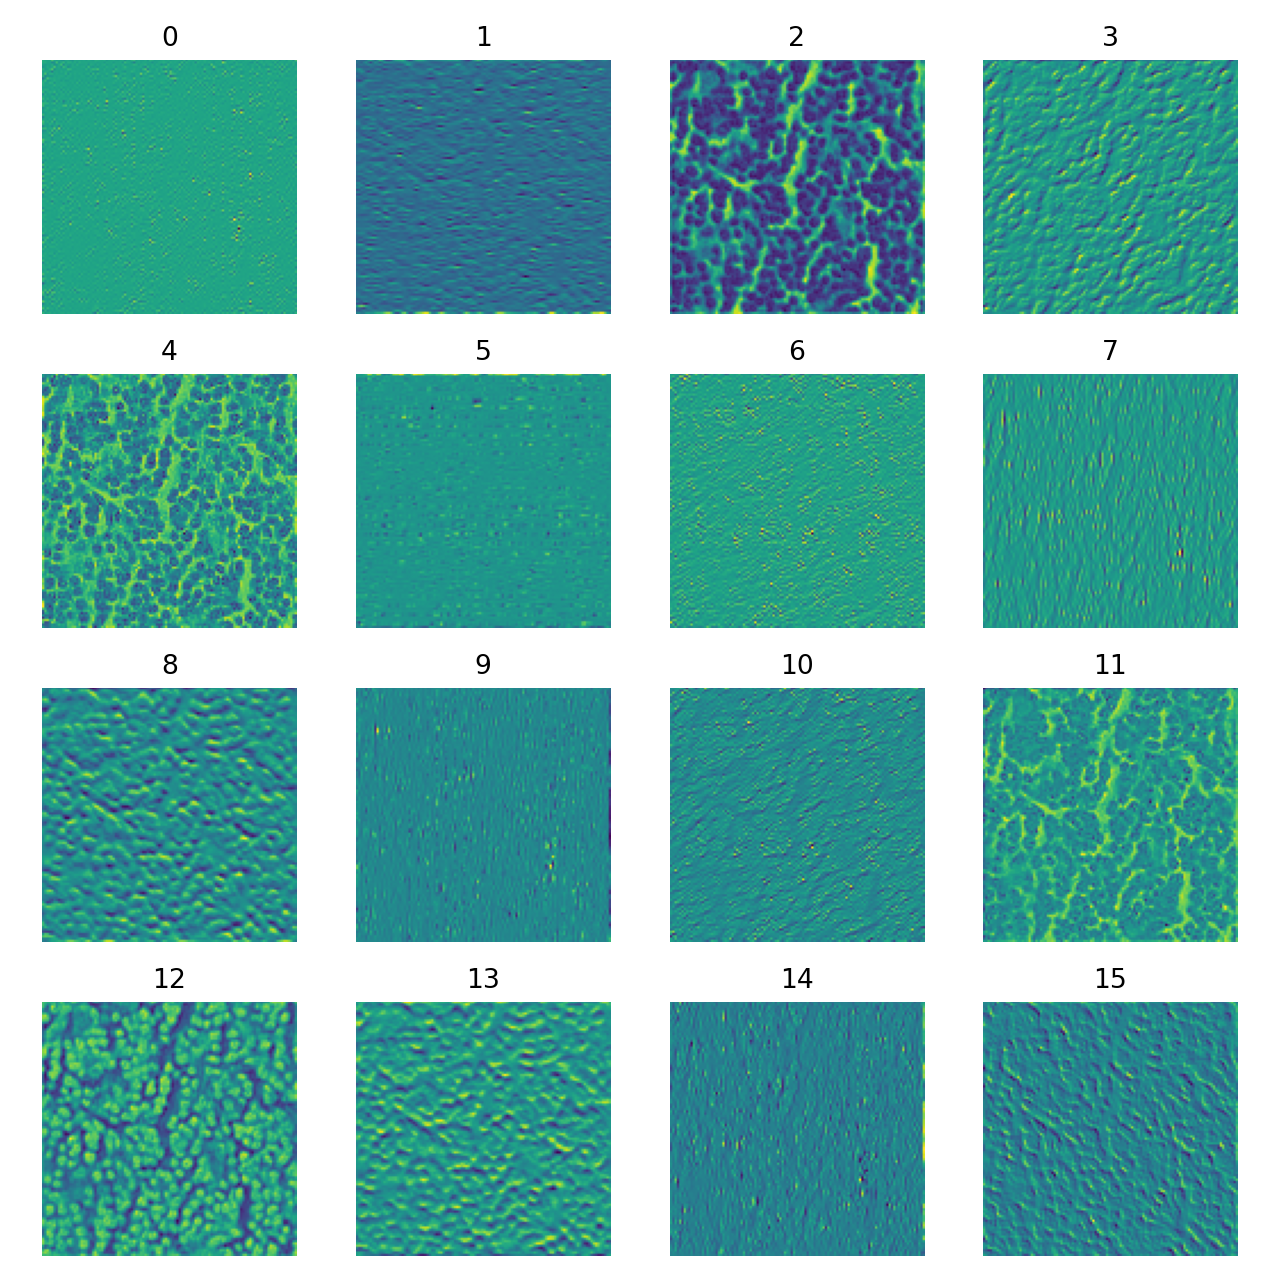
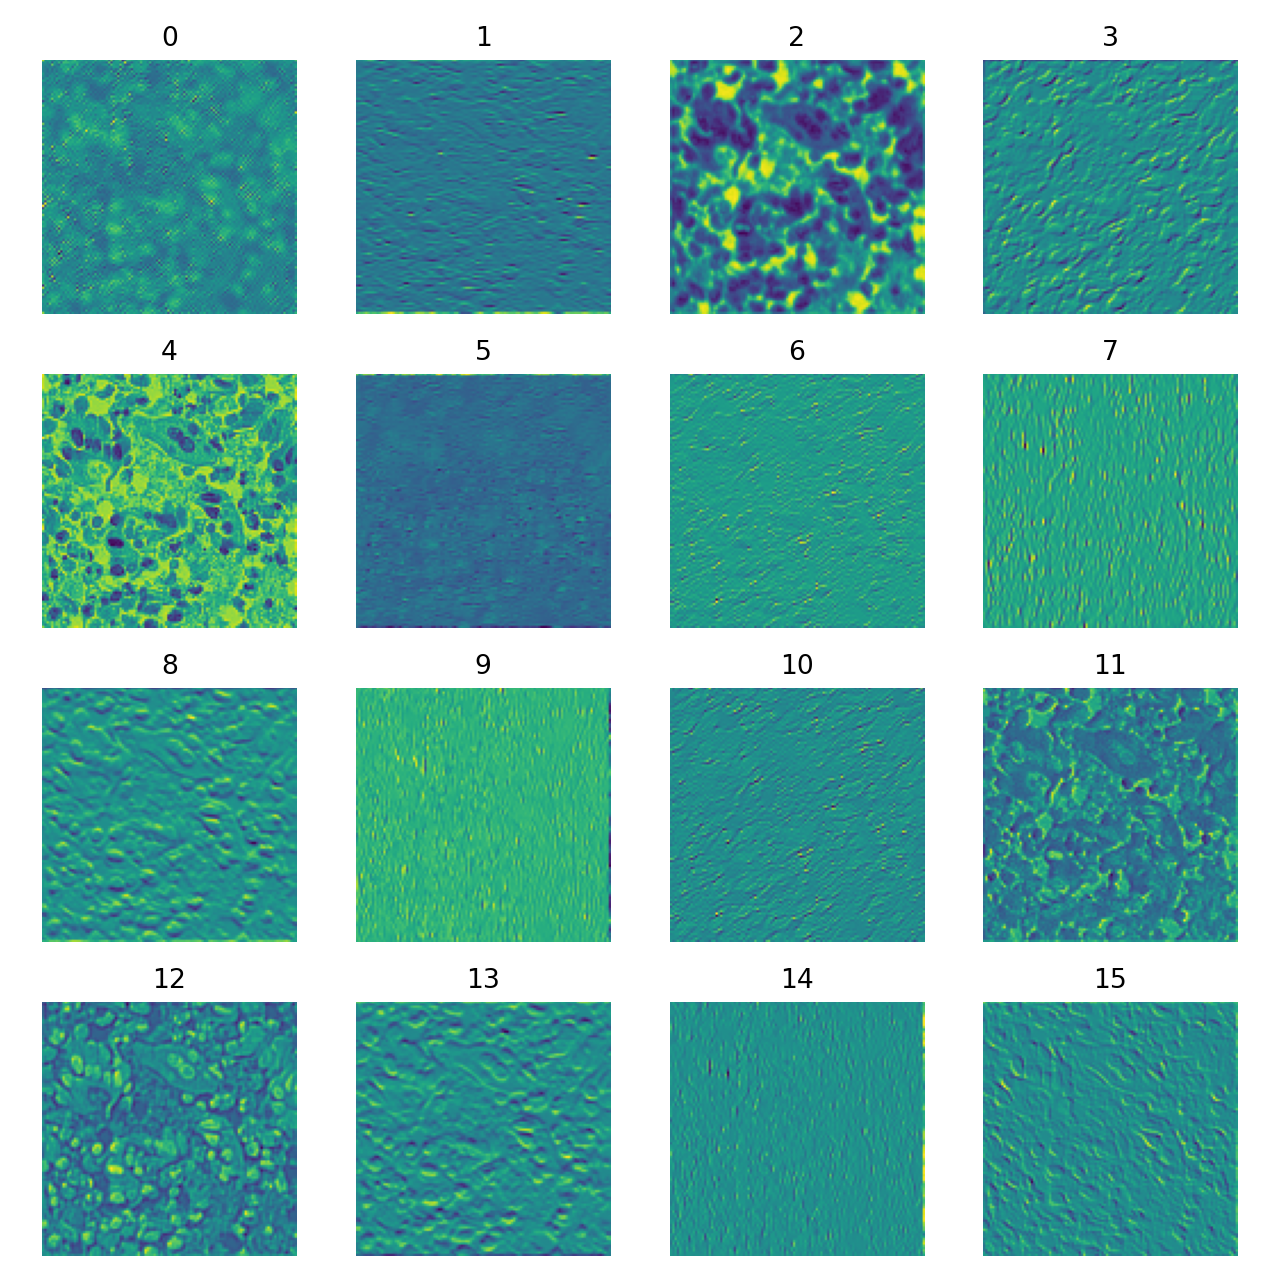
Add final XAI outputs

diff --git a/docs/RESULTADOS_ETAPA_04.md b/docs/RESULTADOS_ETAPA_04.md
@@ -1,22 +1,37 @@
 # Resultados da Etapa 4
 
-## Status atual
+## Status
 
-Foram recebidos e organizados os seguintes artefatos:
+A Etapa 4 agora possui os artefatos principais de explicabilidade gerados a partir do checkpoint final local (`checkpoints/final/best_final_model.pt`):
 
 - `outputs/xai/feature_maps_first_conv.png`
+- `outputs/xai/gradcam_correct_high.png`
+- `outputs/xai/gradcam_wrong_high.png`
 - `outputs/xai/gradcam_attention_discussion.png`
+- `outputs/xai/xai_selection_summary.json`
 
-Esses arquivos sao visualmente validos como Feature Maps e exemplo de discussao de atencao. Entretanto, a execucao recebida do Colab rodou sem encontrar o checkpoint final, entao ainda nao comprova a explicabilidade do modelo final.
+## Evidencias geradas
 
-## Pendencias para cumprir a rubrica
+O arquivo `outputs/xai/xai_selection_summary.json` registra:
 
-- Rodar o notebook 04 com `checkpoints/final/best_final_model.pt` disponivel no Colab/Drive.
-- Gerar `outputs/xai/gradcam_correct_high.png` com 5 acertos mais confiantes.
-- Gerar `outputs/xai/gradcam_wrong_high.png` com 5 erros mais confiantes.
-- Gerar `outputs/xai/xai_selection_summary.json`.
-- Escrever a discussao histologica no relatorio, comparando regioes relevantes, fundo e artefatos.
+- 5 predicoes corretas selecionadas para Grad-CAM.
+- 5 predicoes erradas selecionadas para Grad-CAM.
+- 1 exemplo separado para discutir atencao em regiao possivelmente inadequada.
+- Confiancas dos acertos: 0.9962, 0.9949, 0.9931, 0.9901 e 0.9883.
+- Confiancas dos erros: 0.8556, 0.7284, 0.6407, 0.5591 e 0.3638.
 
-## Ajuste aplicado
+Os mapas de ativacao da primeira camada convolucional foram salvos em grade com 16 filtros, permitindo discutir se os filtros iniciais capturam bordas, textura, padroes nucleares e variacoes de intensidade.
 
-O notebook 04 agora exige o checkpoint final e seleciona os exemplos por ranking de confianca, evitando que limiares fixos retornem zero acertos ou erros.
+## Avaliacao contra a rubrica
+
+- Feature Maps: atendido pelo arquivo `feature_maps_first_conv.png`.
+- Grad-CAM em 5 acertos de alta confianca: atendido pelo arquivo `gradcam_correct_high.png`.
+- Grad-CAM em 5 erros: atendido pelo arquivo `gradcam_wrong_high.png`. Observacao: os erros foram selecionados por ranking de confianca; os primeiros sao bem confiantes, mas o quinto erro tem confianca moderada/baixa.
+- Caso de atencao inadequada para discussao: atendido pelo arquivo `gradcam_attention_discussion.png`.
+- Discussao clinica/histologica: precisa ser escrita no relatorio final, usando os artefatos acima como evidencia.
+
+## Pontos de atencao
+
+O arquivo `gradcam_attention_discussion.png` contem o exemplo solicitado, mas o texto do titulo ficou visualmente apertado. Para o relatorio, recomenda-se usar a imagem como apoio e escrever a interpretacao no texto, em vez de depender apenas do titulo da figura.
+
+Tecnica extra de bonus, como SHAP, Integrated Gradients ou Attention Rollout, nao foi incluida. Isso nao impede o cumprimento da Etapa 4 basica, mas nao deve ser declarado como realizado.
